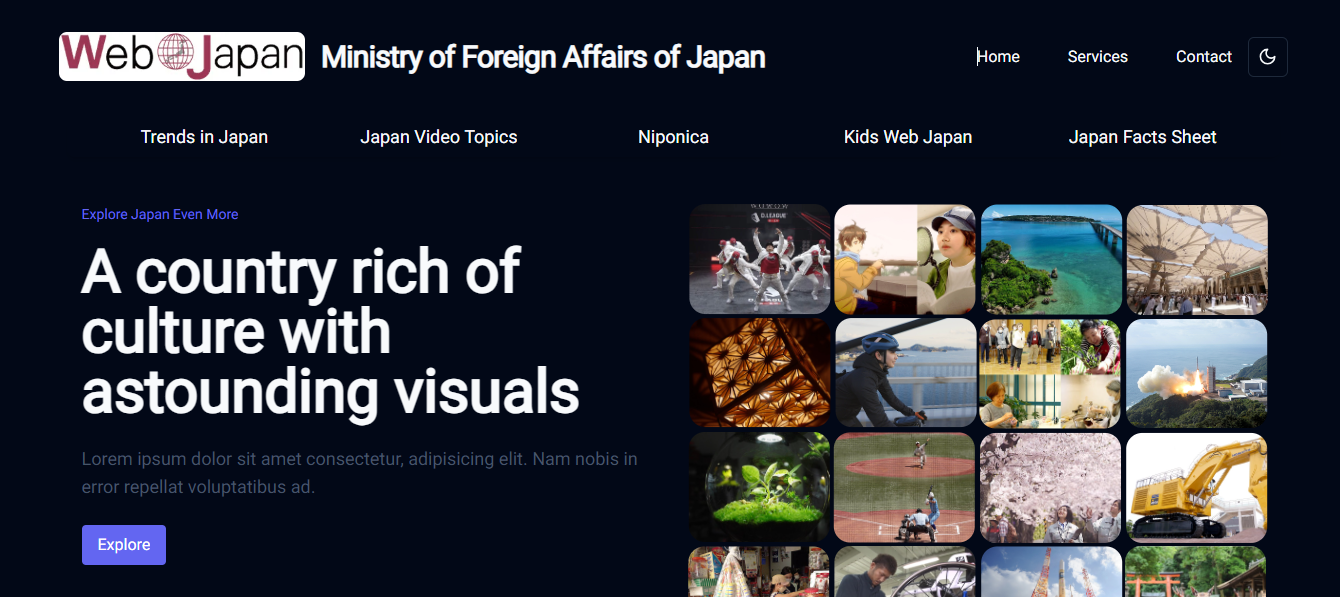
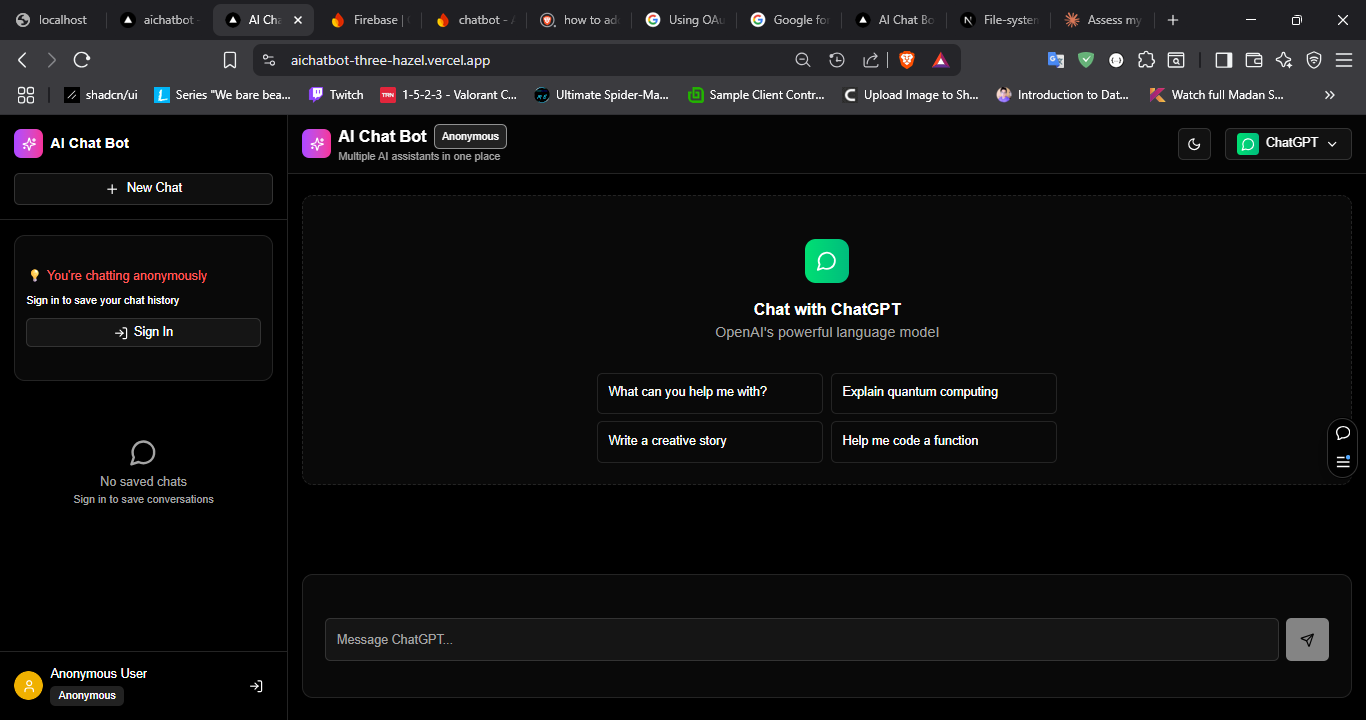
changed projects

diff --git a/components/BentoProjects.jsx b/components/BentoProjects.jsx
@@ -46,25 +46,11 @@ const items = [
 		header: "/p5.png",
 		link: "https://cool-crawler-5k1v.vercel.app/",
 	},
-
 	{
-		title: "Web Japan Landing page",
-		description: "Recreated the landing page of Japan foregin ministry",
-		header: "/p3.png",
-		link: "https://nihon-app.vercel.app/",
-	},
-	{
-		title: "AirBnB clone",
+		title: "Ai chatbot - All in one",
 		description:
-			"Created using the power of Nextjs14 for lighning fast performance",
-		header: "/p2.png",
-		link: "https://bnbmy.vercel.app/",
-	},
-
-	{
-		title: "Weblifi design",
-		description: "With Weblifi You can make your Dream a Reality",
-		header: "/p4.png",
-		link: "https://weblifi.vercel.app/",
+			"Built intelligent chatbot application with natural language processing capabilities and real-time messaging",
+		header: "/p3.png",
+		link: "https://aichatbot-three-hazel.vercel.app/",
 	},
 ];
